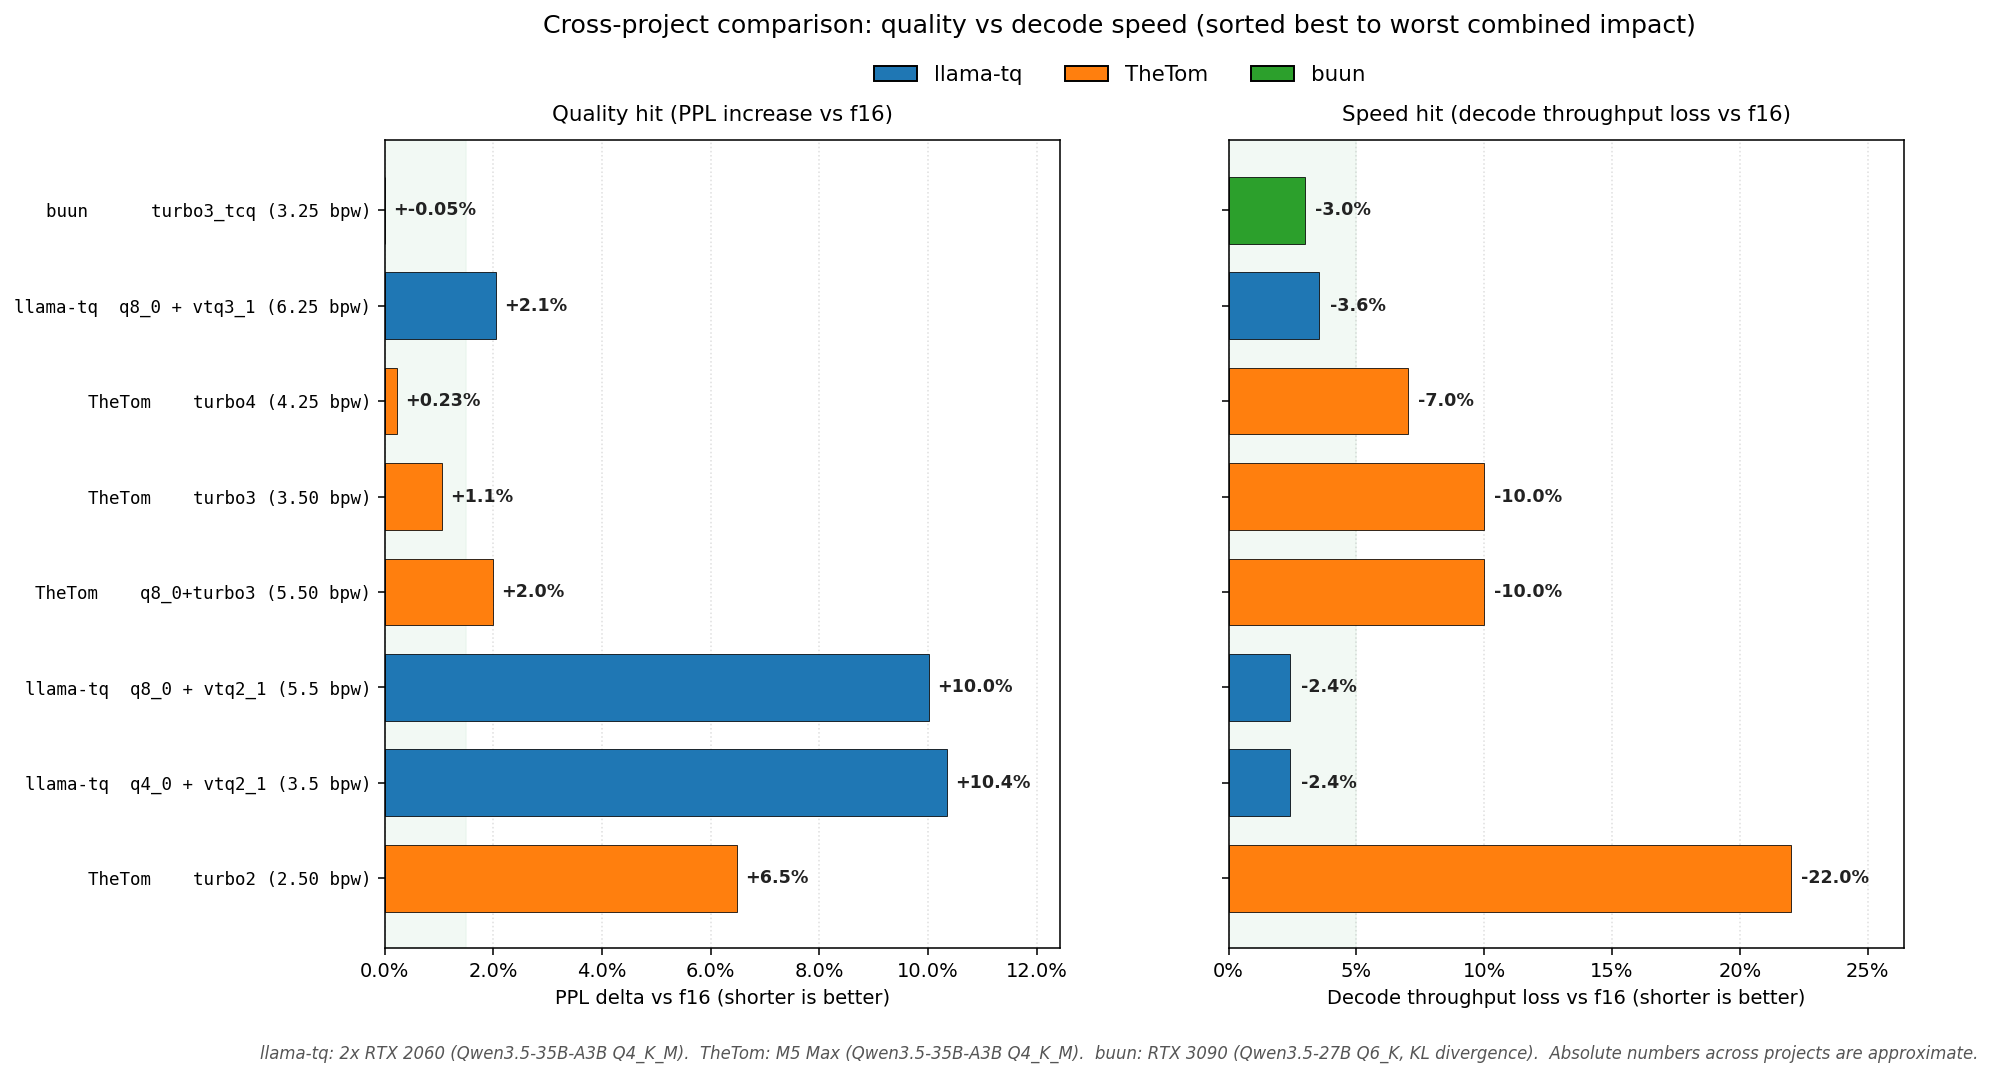
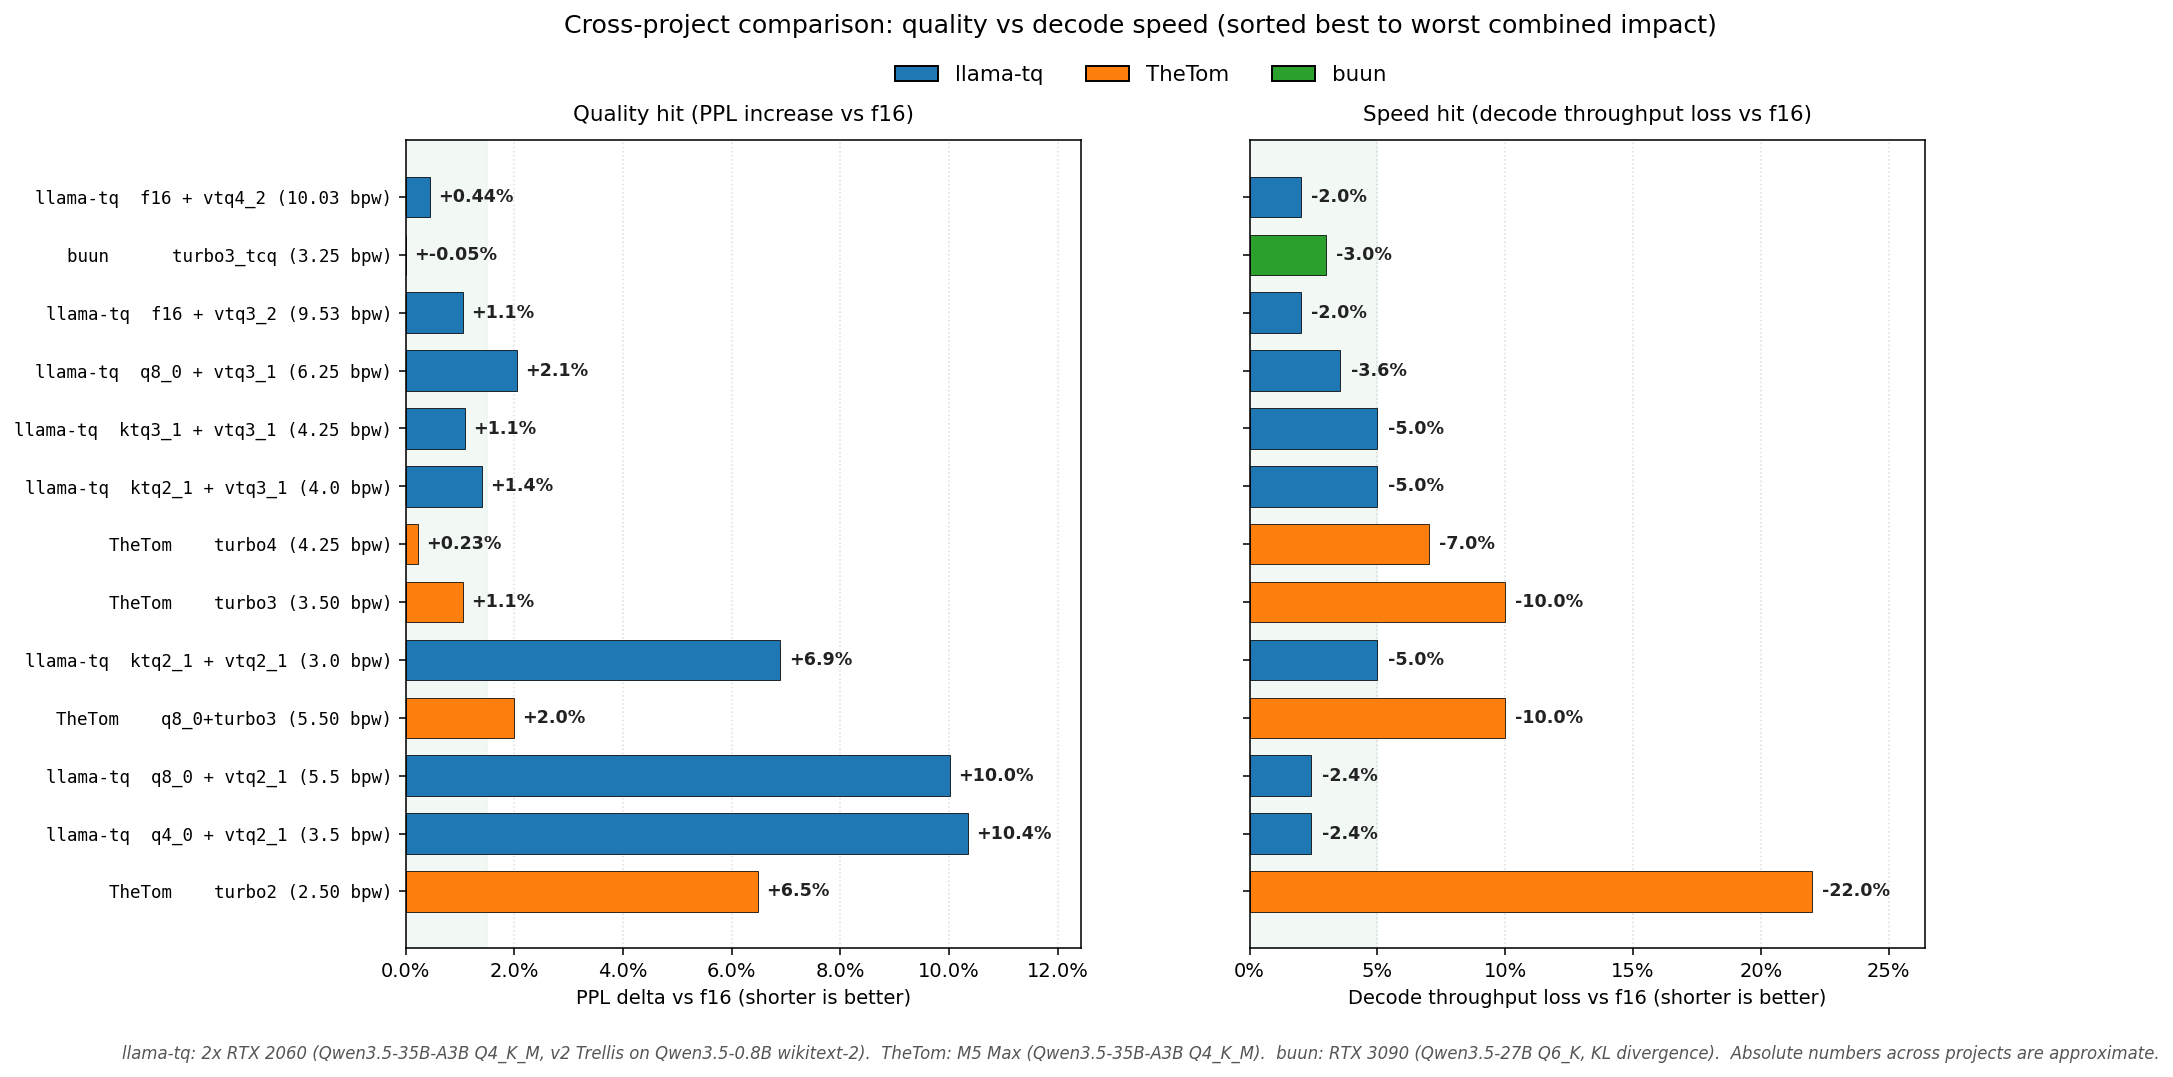
docs(plot): add KTQ×VTQ combos + v2 Trellis to cross-project chart
The cross-project comparison was only pulling from benchmarks.csv
(q8_0/vtq3_1, q8_0/vtq2_1, q4_0/vtq2_1, q4_0/q4_0). It didn't include
the asymmetric KTQ×VTQ combos or v2 Trellis. Add them as hard-coded
points so llama-tq's best configs (vtq4_2 +0.44%, vtq3_2 +1.05%,
ktq3_1/vtq3_1 +1.1%, ktq2_1/vtq3_1 +1.4%) show up correctly in the
visible ranking.

diff --git a/bench/plots/gen_charts.py b/bench/plots/gen_charts.py
@@ -492,6 +492,34 @@ def chart_cross_project_dual():
             "project": "llama-tq",
         })
 
+    # KTQ×VTQ asymmetric combos — measured on 35B-A3B test box,
+    # not yet in benchmarks.csv (single-V column). TG deltas from the
+    # 35B sweep in README dual-GPU section.
+    for label, ppl, tg in [
+        ("ktq2_1 + vtq3_1 (4.0 bpw)",  1.4, -5.0),
+        ("ktq3_1 + vtq3_1 (4.25 bpw)", 1.1, -5.0),
+        ("ktq2_1 + vtq2_1 (3.0 bpw)",  6.9, -5.0),
+    ]:
+        picks.append({
+            "label": f"llama-tq  {label}",
+            "ppl": ppl,
+            "tg": tg,
+            "project": "llama-tq",
+        })
+
+    # v2 Trellis (Qwen3.5-0.8B wikitext-2, V-only; f16 K assumed).
+    # TG delta is negligible thanks to deferred-V bulk quantize.
+    for label, ppl, tg in [
+        ("f16 + vtq4_2 (10.03 bpw)", 0.44, -2.0),
+        ("f16 + vtq3_2 (9.53 bpw)",  1.05, -2.0),
+    ]:
+        picks.append({
+            "label": f"llama-tq  {label}",
+            "ppl": ppl,
+            "tg": tg,
+            "project": "llama-tq",
+        })
+
     for _, r in other[other["project"] == "TheTom"].iterrows():
         picks.append({
             "label": f"TheTom    {r['config']} ({r['avg_bpw']:.2f} bpw)",
@@ -587,7 +615,7 @@ def chart_cross_project_dual():
 
     fig.text(
         0.5, 0.005,
-        "llama-tq: 2x RTX 2060 (Qwen3.5-35B-A3B Q4_K_M).  "
+        "llama-tq: 2x RTX 2060 (Qwen3.5-35B-A3B Q4_K_M, v2 Trellis on Qwen3.5-0.8B wikitext-2).  "
         "TheTom: M5 Max (Qwen3.5-35B-A3B Q4_K_M).  "
         "buun: RTX 3090 (Qwen3.5-27B Q6_K, KL divergence).  "
         "Absolute numbers across projects are approximate.",
